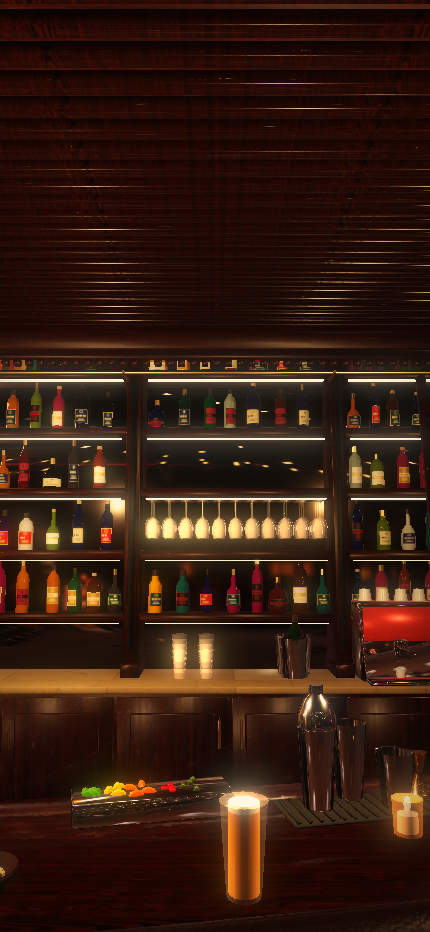
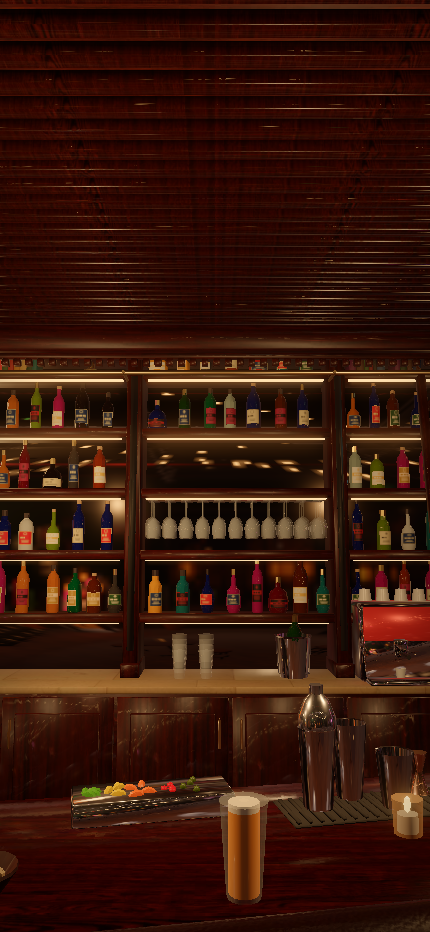
L1.1 Eyes: the scene drawn as real light (HDR), metered and adapting like eyes, the AgX film curve; Settings → Lighting New/Classic (31c8f7b)

diff --git a/README.md b/README.md
@@ -4,6 +4,32 @@ Every piece of work, newest first: what it is, its before/after pictures
 (left before, right after) and its numbers. Made by `tools/piece.mjs`;
 benchmarks by `tools/bench.mjs` (see `bench.jsonl`).
 
+## L1.1 Eyes: the scene drawn as real light (HDR), metered and adapting like eyes, the AgX film curve; Settings → Lighting New/Classic
+
+`31c8f7b` · 2026-10-22 17:55 · 15 files, +437 −86 · tests: game · headless frame 54.47 ms, 288 draws
+
+Phone check: Walk from the bright bar counter to the dark stage corner: the picture slowly brightens as your eyes adjust. Settings → Graphics → Lighting: flip New and Classic, highlights look softer in New.
+
+![L1.1 door.jpg](L1.1/door.jpg)
+
+![L1.1 door-switch.jpg](L1.1/door-switch.jpg)
+
+![L1.1 mirror.jpg](L1.1/mirror.jpg)
+
+![L1.1 mirror-switch.jpg](L1.1/mirror-switch.jpg)
+
+![L1.1 bartop.jpg](L1.1/bartop.jpg)
+
+![L1.1 bartop-switch.jpg](L1.1/bartop-switch.jpg)
+
+![L1.1 backbar.jpg](L1.1/backbar.jpg)
+
+![L1.1 backbar-switch.jpg](L1.1/backbar-switch.jpg)
+
+![L1.1 piano.jpg](L1.1/piano.jpg)
+
+![L1.1 piano-switch.jpg](L1.1/piano-switch.jpg)
+
 ## L0 Automation: piece runner, step finisher, benchmarks, gallery branch, manual pages, feature switches
 
 `69fb05c` · 2026-10-22 17:28 · 18 files, +688 −0 · tests: none
